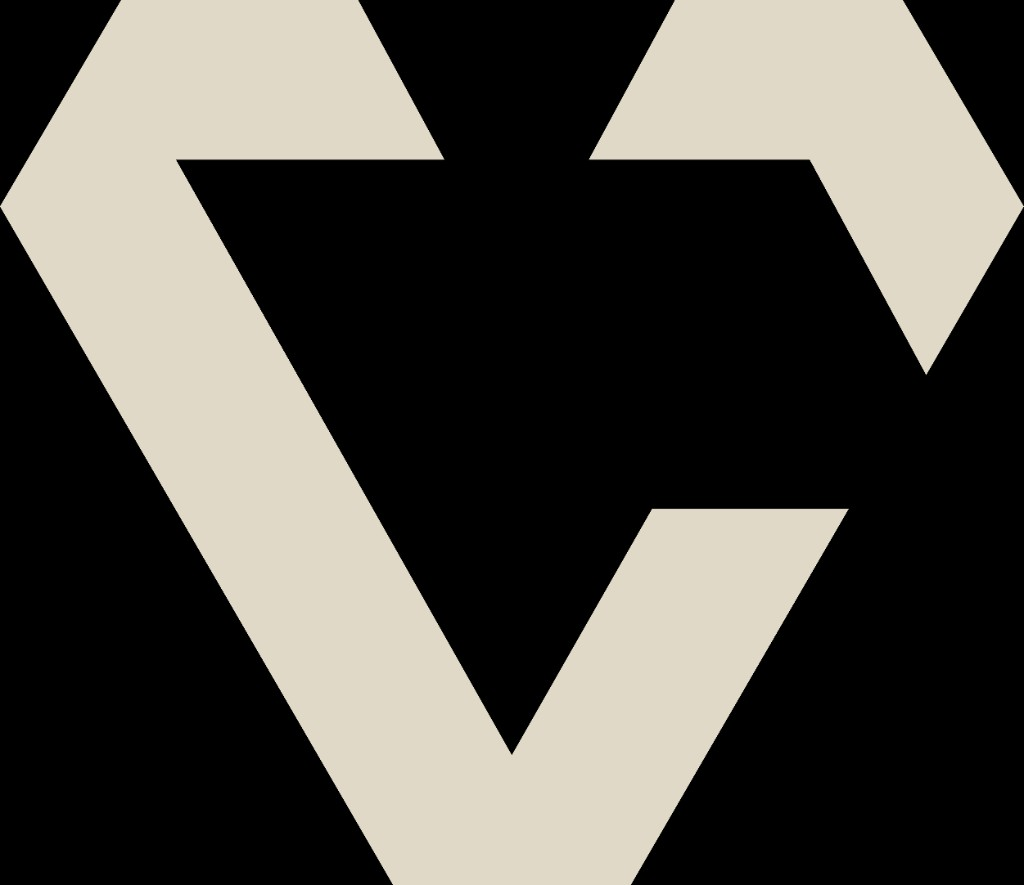
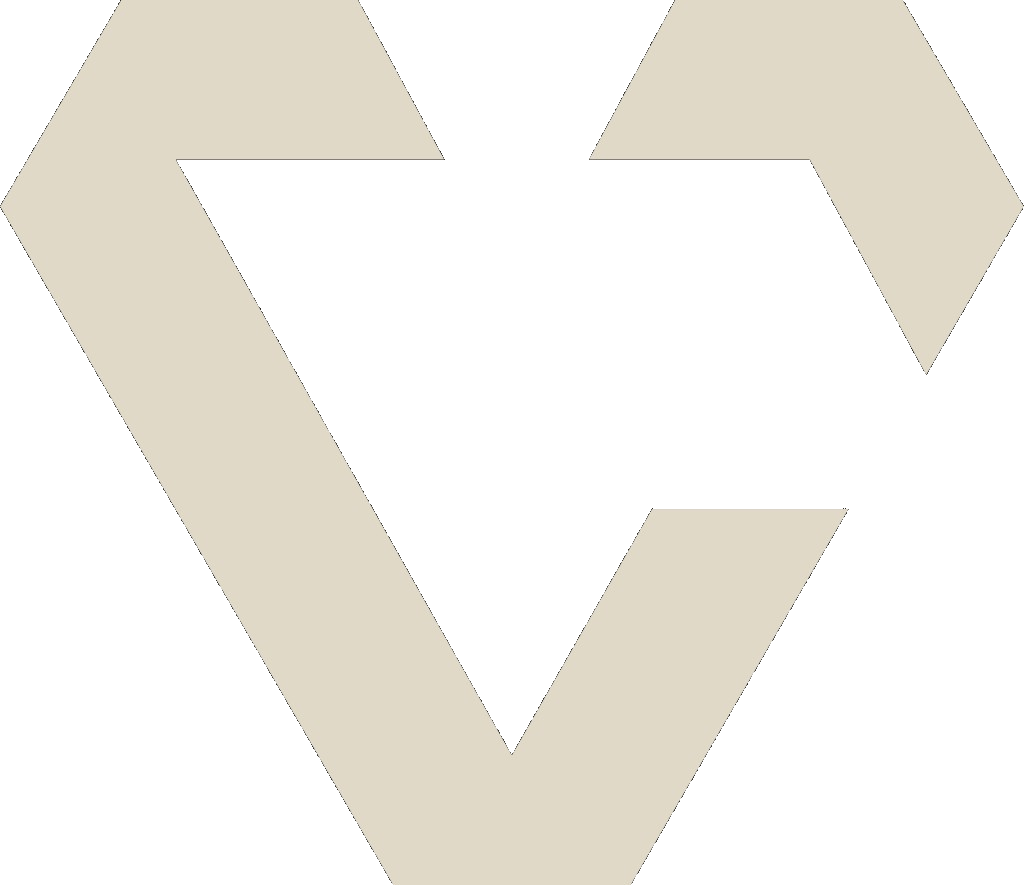
chore(newsroom): transparent PNG placeholder + regenerate script
Made-with: Cursor

diff --git a/src/components/newsroom/NewsImageFallback.tsx b/src/components/newsroom/NewsImageFallback.tsx
@@ -1,5 +1,6 @@
 /**
  * Branded placeholder when NewsAPI has no thumbnail (maroon + cream Vibo mark).
+ * Uses a PNG with transparent background around the logo.
  */
 type Props = {
   className?: string;
